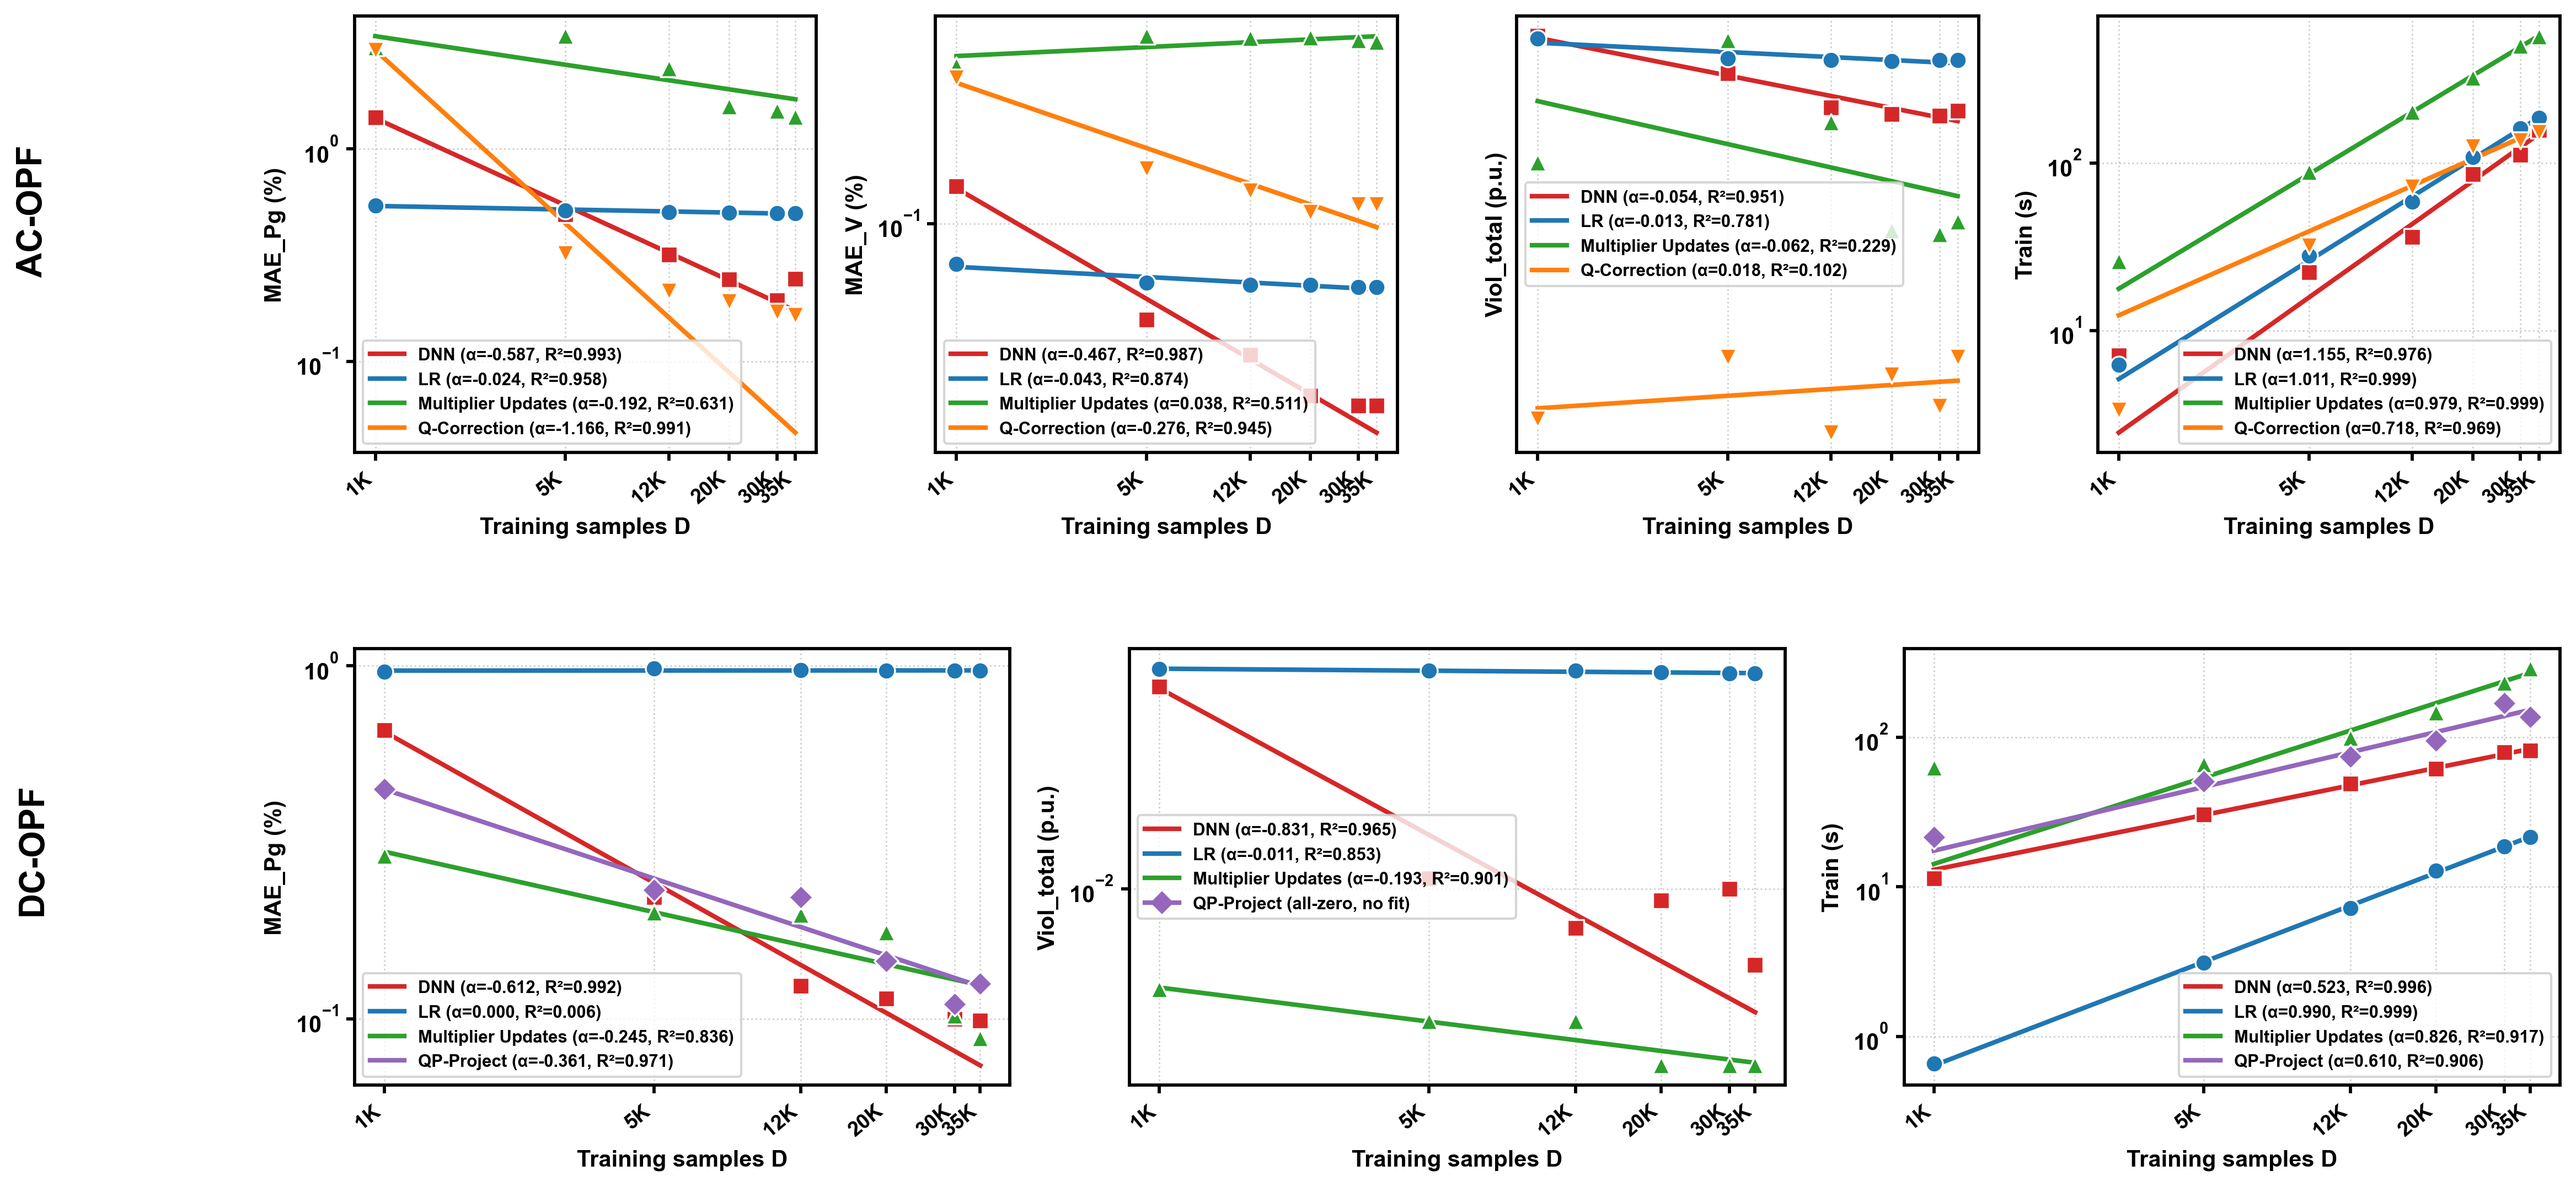
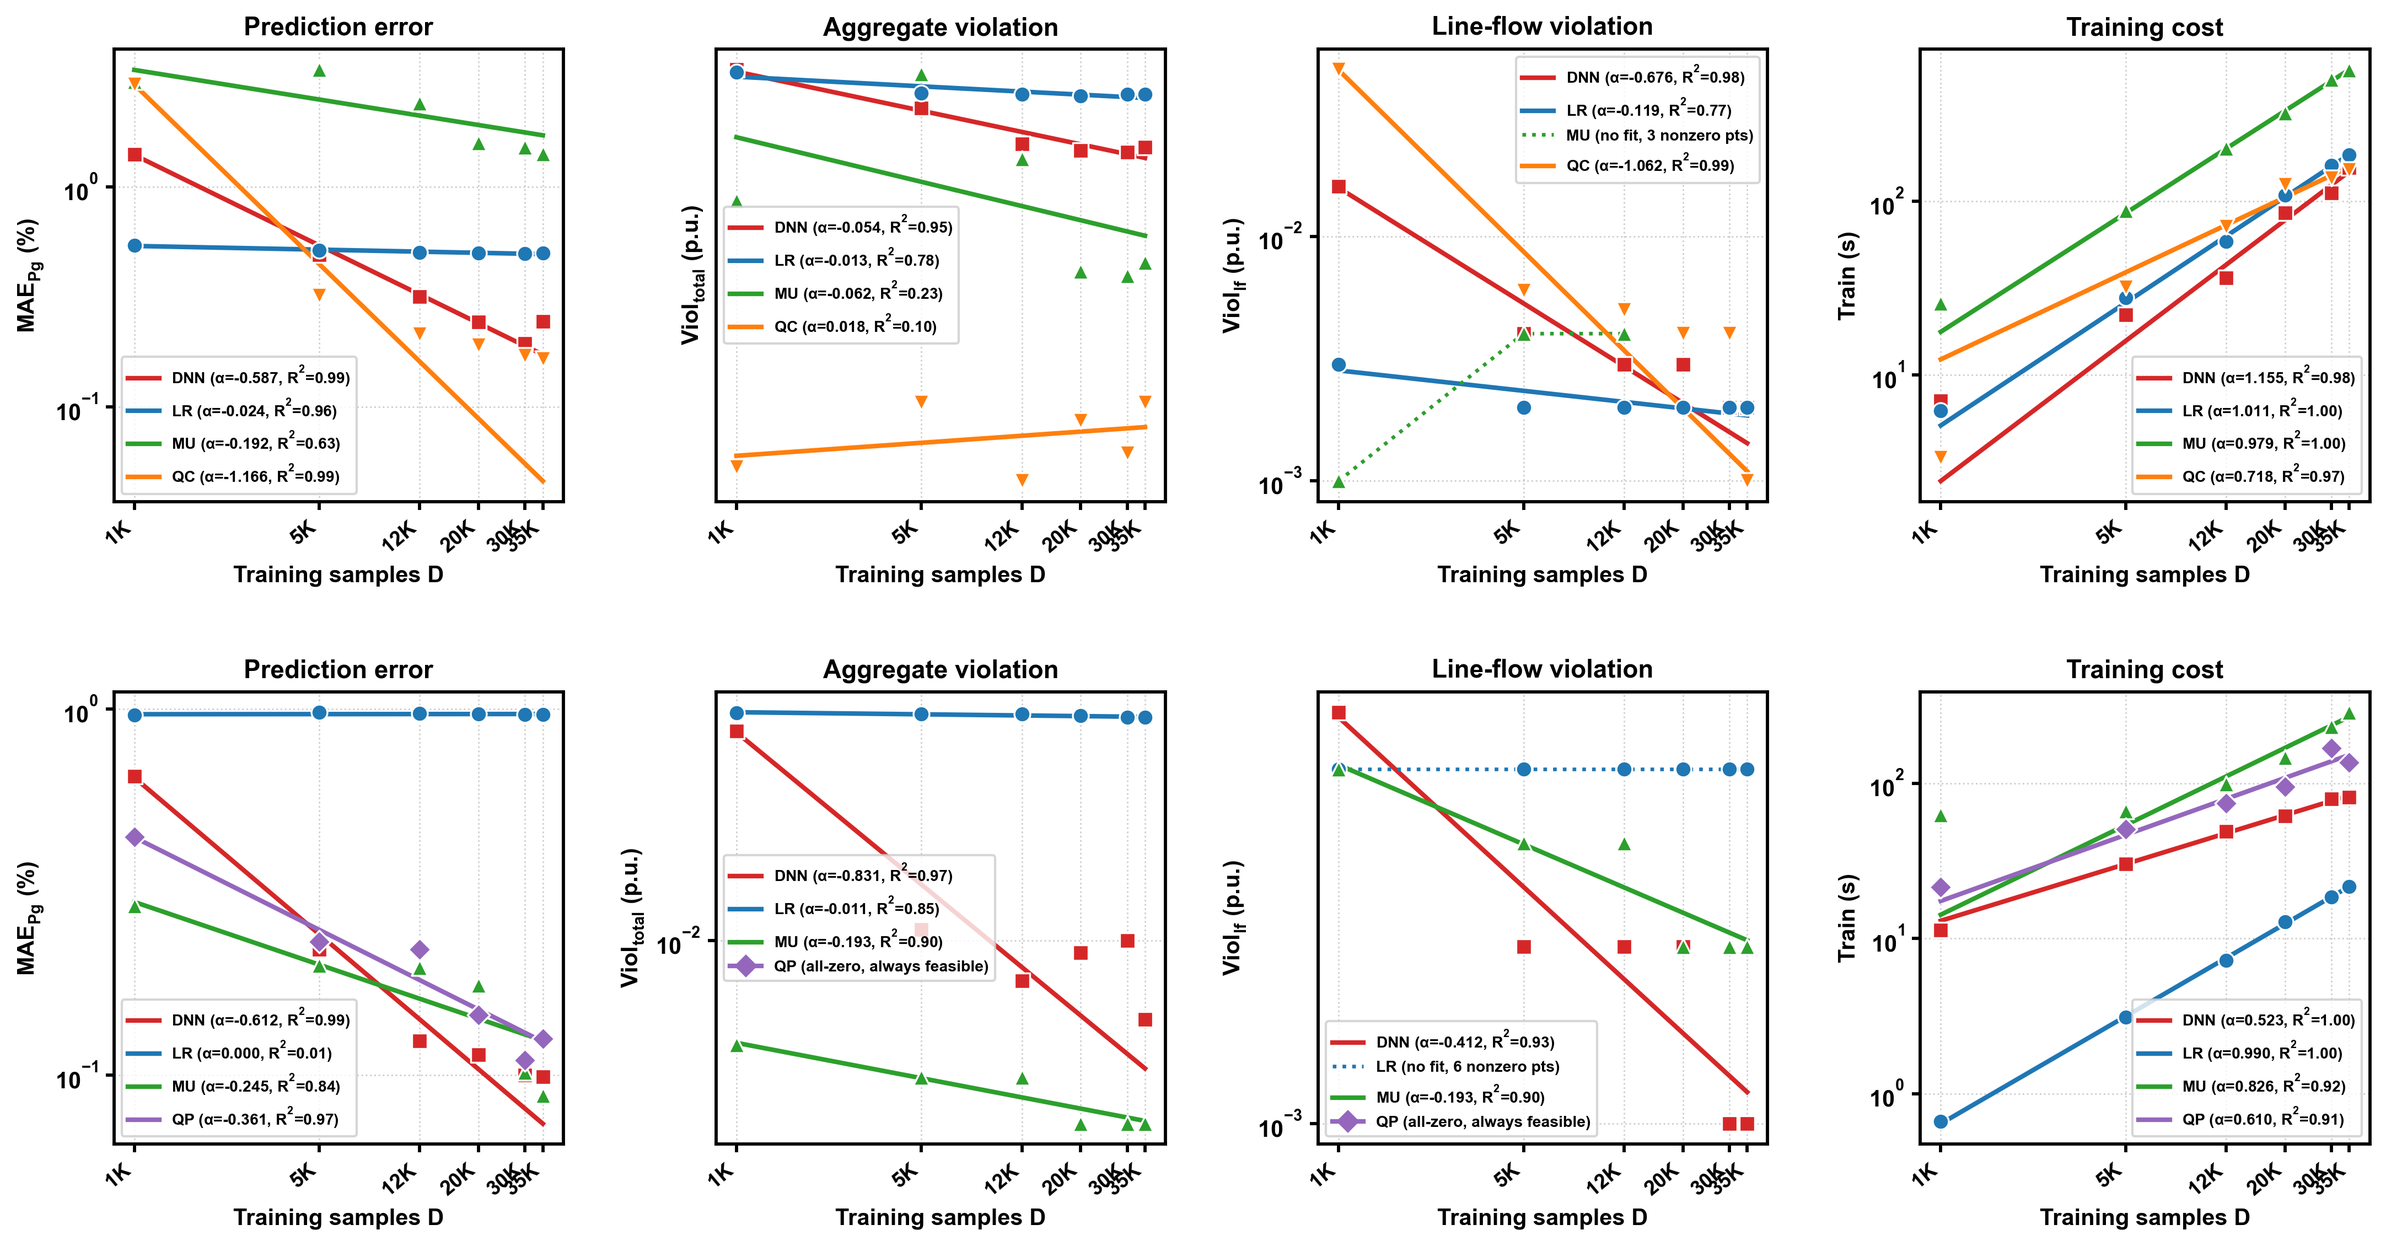
scaling

diff --git a/index.html b/index.html
@@ -786,8 +786,7 @@
           method <em>k</em> over <em>U=12</em> comparison units, where
 one unit is one (system, objective) pair formed by the three test
 systems (30/118/300-bus) and the four ranking objectives (prediction accuracy, economic optimality, constraint
-          feasibility, and inference speed), so every cell
-aggregates performance across all three systems. Ties are counted as
+          feasibility, and inference speed). Ties are counted as
 half-wins. Warmer cells mean the row method wins more often;
           cooler cells mean it loses. Rows and columns are ordered by the overall ranking, so
           the strongest method sits at the top-left.
